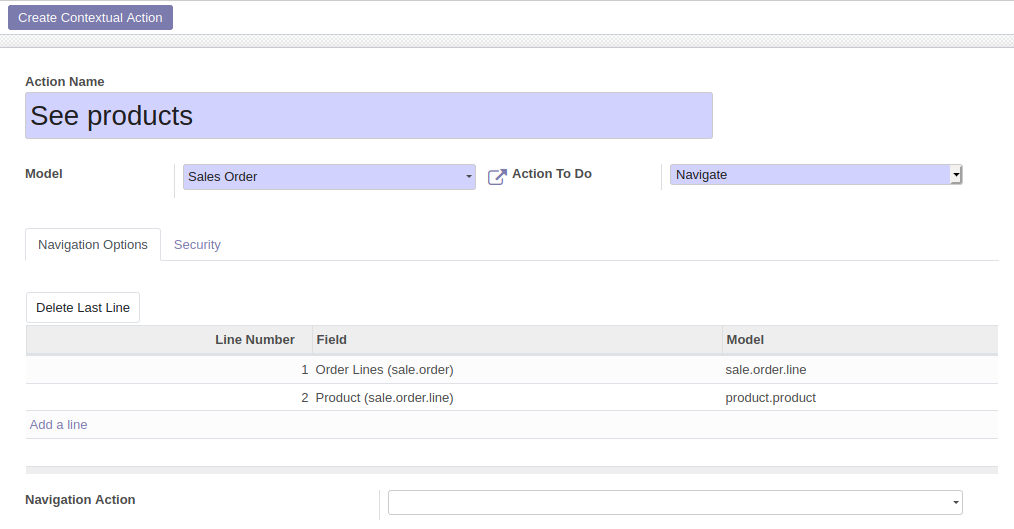
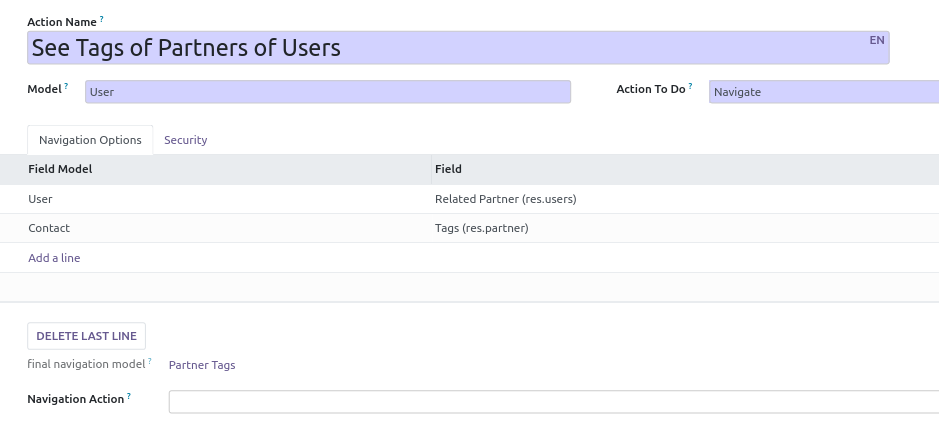
[MIG] server_action_navigate: Migration to 16.0

diff --git a/server_action_navigate/static/description/index.html b/server_action_navigate/static/description/index.html
@@ -367,9 +367,9 @@ ul.auto-toc {
 !! This file is generated by oca-gen-addon-readme !!
 !! changes will be overwritten.                   !!
 !!!!!!!!!!!!!!!!!!!!!!!!!!!!!!!!!!!!!!!!!!!!!!!!!!!!
-!! source digest: sha256:2c2b8623b55720c69820ab8a7a26d3bc90897eb1f587f26f9e1a778f33f99448
+!! source digest: sha256:4a9e5951abe237615f48ea2a448610988368c99dca4aa6dc30e7150503ff6378
 !!!!!!!!!!!!!!!!!!!!!!!!!!!!!!!!!!!!!!!!!!!!!!!!!!!! -->
-<p><a class="reference external image-reference" href="https://odoo-community.org/page/development-status"><img alt="Beta" src="https://img.shields.io/badge/maturity-Beta-yellow.png" /></a> <a class="reference external image-reference" href="http://www.gnu.org/licenses/agpl-3.0-standalone.html"><img alt="License: AGPL-3" src="https://img.shields.io/badge/licence-AGPL--3-blue.png" /></a> <a class="reference external image-reference" href="https://github.com/OCA/server-backend/tree/14.0/server_action_navigate"><img alt="OCA/server-backend" src="https://img.shields.io/badge/github-OCA%2Fserver--backend-lightgray.png?logo=github" /></a> <a class="reference external image-reference" href="https://translation.odoo-community.org/projects/server-backend-14-0/server-backend-14-0-server_action_navigate"><img alt="Translate me on Weblate" src="https://img.shields.io/badge/weblate-Translate%20me-F47D42.png" /></a> <a class="reference external image-reference" href="https://runboat.odoo-community.org/builds?repo=OCA/server-backend&amp;target_branch=14.0"><img alt="Try me on Runboat" src="https://img.shields.io/badge/runboat-Try%20me-875A7B.png" /></a></p>
+<p><a class="reference external image-reference" href="https://odoo-community.org/page/development-status"><img alt="Beta" src="https://img.shields.io/badge/maturity-Beta-yellow.png" /></a> <a class="reference external image-reference" href="http://www.gnu.org/licenses/agpl-3.0-standalone.html"><img alt="License: AGPL-3" src="https://img.shields.io/badge/licence-AGPL--3-blue.png" /></a> <a class="reference external image-reference" href="https://github.com/OCA/server-backend/tree/16.0/server_action_navigate"><img alt="OCA/server-backend" src="https://img.shields.io/badge/github-OCA%2Fserver--backend-lightgray.png?logo=github" /></a> <a class="reference external image-reference" href="https://translation.odoo-community.org/projects/server-backend-16-0/server-backend-16-0-server_action_navigate"><img alt="Translate me on Weblate" src="https://img.shields.io/badge/weblate-Translate%20me-F47D42.png" /></a> <a class="reference external image-reference" href="https://runboat.odoo-community.org/builds?repo=OCA/server-backend&amp;target_branch=16.0"><img alt="Try me on Runboat" src="https://img.shields.io/badge/runboat-Try%20me-875A7B.png" /></a></p>
 <p>This module provides a generic tool to have the possibility to see a list of
 records associated to a given selection of records. This is basically the UI version of <tt class="docutils literal"><span class="pre">recordset.mapped('field1.field2')</span></tt>.</p>
 <p>For example, if you use the sale module, you can configure an action to see
@@ -395,7 +395,7 @@ all the products that have been sold for a given selection of sale orders.</p>
 <li>Create a new item</li>
 </ul>
 <div class="figure">
-<img alt="https://raw.githubusercontent.com/OCA/server-backend/14.0/server_action_navigate/static/description/ir_actions_server_form.png" src="https://raw.githubusercontent.com/OCA/server-backend/14.0/server_action_navigate/static/description/ir_actions_server_form.png" />
+<img alt="https://raw.githubusercontent.com/OCA/server-backend/16.0/server_action_navigate/static/description/ir_actions_server_form.png" src="https://raw.githubusercontent.com/OCA/server-backend/16.0/server_action_navigate/static/description/ir_actions_server_form.png" />
 </div>
 <ul class="simple">
 <li>Set a name that will be used for the Contextual Action</li>
@@ -421,13 +421,13 @@ button.</li>
 <li>click on ‘Action’ Button</li>
 </ul>
 <div class="figure">
-<img alt="https://raw.githubusercontent.com/OCA/server-backend/14.0/server_action_navigate/static/description/sale_order_tree.png" src="https://raw.githubusercontent.com/OCA/server-backend/14.0/server_action_navigate/static/description/sale_order_tree.png" />
+<img alt="https://raw.githubusercontent.com/OCA/server-backend/16.0/server_action_navigate/static/description/res_users_tree.png" src="https://raw.githubusercontent.com/OCA/server-backend/16.0/server_action_navigate/static/description/res_users_tree.png" />
 </div>
 <ul class="simple">
 <li>then click on the name of the configured Action and see the results</li>
 </ul>
 <div class="figure">
-<img alt="https://raw.githubusercontent.com/OCA/server-backend/14.0/server_action_navigate/static/description/product_product_tree.png" src="https://raw.githubusercontent.com/OCA/server-backend/14.0/server_action_navigate/static/description/product_product_tree.png" />
+<img alt="https://raw.githubusercontent.com/OCA/server-backend/16.0/server_action_navigate/static/description/res_partner_category_tree.png" src="https://raw.githubusercontent.com/OCA/server-backend/16.0/server_action_navigate/static/description/res_partner_category_tree.png" />
 </div>
 </div>
 <div class="section" id="bug-tracker">
@@ -435,7 +435,7 @@ button.</li>
 <p>Bugs are tracked on <a class="reference external" href="https://github.com/OCA/server-backend/issues">GitHub Issues</a>.
 In case of trouble, please check there if your issue has already been reported.
 If you spotted it first, help us to smash it by providing a detailed and welcomed
-<a class="reference external" href="https://github.com/OCA/server-backend/issues/new?body=module:%20server_action_navigate%0Aversion:%2014.0%0A%0A**Steps%20to%20reproduce**%0A-%20...%0A%0A**Current%20behavior**%0A%0A**Expected%20behavior**">feedback</a>.</p>
+<a class="reference external" href="https://github.com/OCA/server-backend/issues/new?body=module:%20server_action_navigate%0Aversion:%2016.0%0A%0A**Steps%20to%20reproduce**%0A-%20...%0A%0A**Current%20behavior**%0A%0A**Expected%20behavior**">feedback</a>.</p>
 <p>Do not contact contributors directly about support or help with technical issues.</p>
 </div>
 <div class="section" id="credits">
@@ -462,7 +462,7 @@ mission is to support the collaborative development of Odoo features and
 promote its widespread use.</p>
 <p>Current <a class="reference external" href="https://odoo-community.org/page/maintainer-role">maintainers</a>:</p>
 <p><a class="reference external image-reference" href="https://github.com/legalsylvain"><img alt="legalsylvain" src="https://github.com/legalsylvain.png?size=40px" /></a> <a class="reference external image-reference" href="https://github.com/ashishhirpara"><img alt="ashishhirpara" src="https://github.com/ashishhirpara.png?size=40px" /></a></p>
-<p>This module is part of the <a class="reference external" href="https://github.com/OCA/server-backend/tree/14.0/server_action_navigate">OCA/server-backend</a> project on GitHub.</p>
+<p>This module is part of the <a class="reference external" href="https://github.com/OCA/server-backend/tree/16.0/server_action_navigate">OCA/server-backend</a> project on GitHub.</p>
 <p>You are welcome to contribute. To learn how please visit <a class="reference external" href="https://odoo-community.org/page/Contribute">https://odoo-community.org/page/Contribute</a>.</p>
 </div>
 </div>

diff --git a/server_action_navigate/models/ir_actions_server.py b/server_action_navigate/models/ir_actions_server.py
@@ -13,85 +13,74 @@ class IrActionsServer(models.Model):
         selection_add=[("navigate", "Navigate")], ondelete={"navigate": "set default"}
     )
 
-    navigate_action_id = fields.Many2one(
-        string="Navigation Action",
-        comodel_name="ir.actions.act_window",
-        domain="[('res_model', '=', max_navigate_line_model)]",
-        help="Define here the action used when the navigation will be executed"
-        " if empty, a generic action will be used.",
-    )
-
     navigate_line_ids = fields.One2many(
         comodel_name="ir.actions.server.navigate.line",
         string="Navigate Lines",
         inverse_name="action_id",
     )
 
-    max_navigate_line_sequence = fields.Integer(
-        string="Max Navigate sequence in lines",
-        compute="_compute_max_navigate_line",
-        store=True,
+    navigate_action_id = fields.Many2one(
+        string="Navigation Action",
+        comodel_name="ir.actions.act_window",
+        domain="[('res_model', '=', navigate_model_technical_name)]",
+        help="Define here the action used when the navigation will be executed"
+        " if empty, a generic action will be used.",
     )
 
-    max_navigate_line_model = fields.Char(
-        string="Max Navigate Model in lines",
-        compute="_compute_max_navigate_line",
-        store=True,
+    navigate_model_id = fields.Many2one(
+        string="Final Navigation Model",
+        comodel_name="ir.model",
+        compute="_compute_navigate_infos",
     )
 
-    @api.depends("navigate_line_ids", "model_id")
-    def _compute_max_navigate_line(self):
-        """Allow to know the highest sequence entered in navigate lines.
-        Then we add 1 to this value for the next sequence.
-        This value is given to the context of the o2m field in the view.
-        So when we create new navigate line, the sequence is automatically
-        added as :  max_sequence + 1
-        """
+    navigate_model_technical_name = fields.Char(
+        compute="_compute_navigate_infos",
+    )
+
+    @api.depends("navigate_line_ids.field_id", "model_id")
+    def _compute_navigate_infos(self):
+        IrModel = self.env["ir.model"]
         for action in self:
-            action.max_navigate_line_sequence = (
-                max(action.mapped("navigate_line_ids.sequence") or [0]) + 1
-            )
-            action.max_navigate_line_model = (
-                action.navigate_line_ids
-                and action.navigate_line_ids[-1].field_model
-                or action.model_id.model
-            )
+            if action.navigate_line_ids:
+                action.navigate_model_id = IrModel.search(
+                    [("model", "=", action.navigate_line_ids[-1].field_id.relation)]
+                )
+            else:
+                action.navigate_model_id = action.model_id
+            action.navigate_model_technical_name = action.navigate_model_id.model
 
     def delete_last_line(self):
         self.ensure_one()
         self.navigate_line_ids[-1].unlink()
         self.navigate_action_id = False
 
-    @api.model
-    def run_action_navigate_multi(self, action, eval_context=None):
-        IrModel = self.env["ir.model"]
-        lines = action.navigate_line_ids
+    def _run_action_navigate_multi(self, eval_context=None):
+        self.ensure_one()
+        lines = self.navigate_line_ids
         if not lines:
             raise UserError(
-                _("The Action Server %s is not correctly set\n" " : No fields defined")
+                _("The Action Server %s is not correctly set\n : No fields defined")
+                % (self.name)
             )
         mapped_field_value = ".".join(lines.mapped("field_id.name"))
 
         item_ids = eval_context["records"].mapped(mapped_field_value).ids
         domain = "[('id','in',[" + ",".join(map(str, item_ids)) + "])]"
 
-        # Use Defined action if defined
-        if action.navigate_action_id:
-            return_action = action.navigate_action_id
+        if self.navigate_action_id:
+            # Use Defined action if defined
+            return_action = self.navigate_action_id
             result = return_action.read()[0]
             result["domain"] = domain
         else:
             # Otherwise, return a default action
-            model_name = action.max_navigate_line_model
-            model = IrModel.search([("model", "=", model_name)])
-            view_mode = "tree,form"
             result = {
-                "name": model.name,
+                "name": self.navigate_model_id.name,
                 "domain": domain,
-                "res_model": model_name,
+                "res_model": self.navigate_model_id.model,
                 "target": "current",
                 "type": "ir.actions.act_window",
-                "view_mode": view_mode,
+                "view_mode": "tree,form",
             }
 
         return result

diff --git a/server_action_navigate/models/ir_actions_server_navigate_line.py b/server_action_navigate/models/ir_actions_server_navigate_line.py
@@ -8,11 +8,7 @@ from odoo import api, fields, models
 class IrActionsServerNavigateLine(models.Model):
     _name = "ir.actions.server.navigate.line"
     _description = "Server Actions Navigation Lines"
-    _order = "sequence, id"
-
-    sequence = fields.Integer(string="Sequence")
-
-    field_model = fields.Char(string="Model", related="field_id.relation", store=True)
+    _order = "id"
 
     action_id = fields.Many2one(
         comodel_name="ir.actions.server",
@@ -21,28 +17,31 @@ class IrActionsServerNavigateLine(models.Model):
         ondelete="cascade",
     )
 
-    field_id = fields.Many2one(
-        comodel_name="ir.model.fields",
-        string="Field",
-        required=True,
+    field_domain_model_id = fields.Many2one(
+        string="Field Model",
+        comodel_name="ir.model",
         ondelete="cascade",
+        compute="_compute_field_domain_model_id",
+        help="Technical field, used as a domain for the 'field' field.",
     )
 
-    # when adding a record, onchange is called for every field on the
-    # form, also in editable list views
-    @api.onchange("field_id")
-    def _onchange_field_id(self):
+    field_id = fields.Many2one(
+        comodel_name="ir.model.fields",
+        ondelete="cascade",
+        domain="["
+        "('model_id', '=', field_domain_model_id),"
+        " ('ttype', 'in', ['many2one', 'one2many', 'many2many']),"
+        "]",
+        required=True,
+    )
 
-        lines = self.action_id.new(
-            {"navigate_line_ids": self.env.context.get("navigate_line_ids", [])}
-        ).navigate_line_ids
-
-        model = lines[-1:].field_id.relation or self.action_id.model_id.model
-        return {
-            "domain": {
-                "field_id": [
-                    ("ttype", "in", ["many2one", "one2many", "many2many"]),
-                    ("model", "=", model),
-                ],
-            }
-        }
+    @api.depends("action_id.navigate_line_ids.field_id")
+    def _compute_field_domain_model_id(self):
+        IrModel = self.env["ir.model"]
+        for line in self:
+            model = self.action_id.model_id
+            for action_line in self.action_id.navigate_line_ids:
+                if action_line == line:
+                    line.field_domain_model_id = model
+                    break
+                model = IrModel.search([("model", "=", action_line.field_id.relation)])

diff --git a/server_action_navigate/__manifest__.py b/server_action_navigate/__manifest__.py
@@ -4,7 +4,7 @@
 
 {
     "name": "Server Actions - Navigate",
-    "version": "14.0.1.0.2",
+    "version": "16.0.1.0.0",
     "author": "GRAP, Odoo Community Association (OCA)",
     "summary": "Navigate between any items of any Odoo Models",
     "category": "Tools",

diff --git a/server_action_navigate/README.rst b/server_action_navigate/README.rst
@@ -7,7 +7,7 @@ Server Actions - Navigate
    !! This file is generated by oca-gen-addon-readme !!
    !! changes will be overwritten.                   !!
    !!!!!!!!!!!!!!!!!!!!!!!!!!!!!!!!!!!!!!!!!!!!!!!!!!!!
-   !! source digest: sha256:2c2b8623b55720c69820ab8a7a26d3bc90897eb1f587f26f9e1a778f33f99448
+   !! source digest: sha256:4a9e5951abe237615f48ea2a448610988368c99dca4aa6dc30e7150503ff6378
    !!!!!!!!!!!!!!!!!!!!!!!!!!!!!!!!!!!!!!!!!!!!!!!!!!!!
 
 .. |badge1| image:: https://img.shields.io/badge/maturity-Beta-yellow.png
@@ -17,13 +17,13 @@ Server Actions - Navigate
     :target: http://www.gnu.org/licenses/agpl-3.0-standalone.html
     :alt: License: AGPL-3
 .. |badge3| image:: https://img.shields.io/badge/github-OCA%2Fserver--backend-lightgray.png?logo=github
-    :target: https://github.com/OCA/server-backend/tree/14.0/server_action_navigate
+    :target: https://github.com/OCA/server-backend/tree/16.0/server_action_navigate
     :alt: OCA/server-backend
 .. |badge4| image:: https://img.shields.io/badge/weblate-Translate%20me-F47D42.png
-    :target: https://translation.odoo-community.org/projects/server-backend-14-0/server-backend-14-0-server_action_navigate
+    :target: https://translation.odoo-community.org/projects/server-backend-16-0/server-backend-16-0-server_action_navigate
     :alt: Translate me on Weblate
 .. |badge5| image:: https://img.shields.io/badge/runboat-Try%20me-875A7B.png
-    :target: https://runboat.odoo-community.org/builds?repo=OCA/server-backend&target_branch=14.0
+    :target: https://runboat.odoo-community.org/builds?repo=OCA/server-backend&target_branch=16.0
     :alt: Try me on Runboat
 
 |badge1| |badge2| |badge3| |badge4| |badge5|
@@ -46,7 +46,7 @@ Configuration
 
 * Create a new item
 
-.. figure:: https://raw.githubusercontent.com/OCA/server-backend/14.0/server_action_navigate/static/description/ir_actions_server_form.png
+.. figure:: https://raw.githubusercontent.com/OCA/server-backend/16.0/server_action_navigate/static/description/ir_actions_server_form.png
 
 * Set a name that will be used for the Contextual Action
 
@@ -77,12 +77,11 @@ Usage
 
 * click on 'Action' Button
 
-.. figure:: https://raw.githubusercontent.com/OCA/server-backend/14.0/server_action_navigate/static/description/sale_order_tree.png
-
+.. figure:: https://raw.githubusercontent.com/OCA/server-backend/16.0/server_action_navigate/static/description/res_users_tree.png
 
 * then click on the name of the configured Action and see the results
 
-.. figure:: https://raw.githubusercontent.com/OCA/server-backend/14.0/server_action_navigate/static/description/product_product_tree.png
+.. figure:: https://raw.githubusercontent.com/OCA/server-backend/16.0/server_action_navigate/static/description/res_partner_category_tree.png
 
 Bug Tracker
 ===========
@@ -90,7 +89,7 @@ Bug Tracker
 Bugs are tracked on `GitHub Issues <https://github.com/OCA/server-backend/issues>`_.
 In case of trouble, please check there if your issue has already been reported.
 If you spotted it first, help us to smash it by providing a detailed and welcomed
-`feedback <https://github.com/OCA/server-backend/issues/new?body=module:%20server_action_navigate%0Aversion:%2014.0%0A%0A**Steps%20to%20reproduce**%0A-%20...%0A%0A**Current%20behavior**%0A%0A**Expected%20behavior**>`_.
+`feedback <https://github.com/OCA/server-backend/issues/new?body=module:%20server_action_navigate%0Aversion:%2016.0%0A%0A**Steps%20to%20reproduce**%0A-%20...%0A%0A**Current%20behavior**%0A%0A**Expected%20behavior**>`_.
 
 Do not contact contributors directly about support or help with technical issues.
 
@@ -132,6 +131,6 @@ Current `maintainers <https://odoo-community.org/page/maintainer-role>`__:
 
 |maintainer-legalsylvain| |maintainer-ashishhirpara| 
 
-This module is part of the `OCA/server-backend <https://github.com/OCA/server-backend/tree/14.0/server_action_navigate>`_ project on GitHub.
+This module is part of the `OCA/server-backend <https://github.com/OCA/server-backend/tree/16.0/server_action_navigate>`_ project on GitHub.
 
 You are welcome to contribute. To learn how please visit https://odoo-community.org/page/Contribute.

diff --git a/server_action_navigate/readme/USAGE.rst b/server_action_navigate/readme/USAGE.rst
@@ -2,9 +2,8 @@
 
 * click on 'Action' Button
 
-.. figure:: ../static/description/sale_order_tree.png
-
+.. figure:: ../static/description/res_users_tree.png
 
 * then click on the name of the configured Action and see the results
 
-.. figure:: ../static/description/product_product_tree.png
+.. figure:: ../static/description/res_partner_category_tree.png
